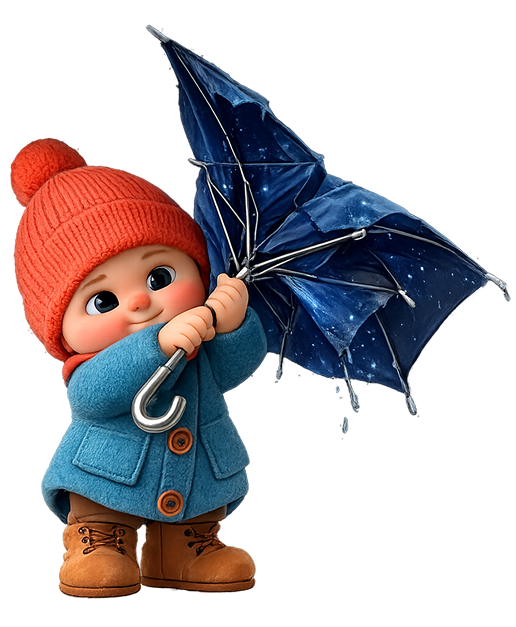
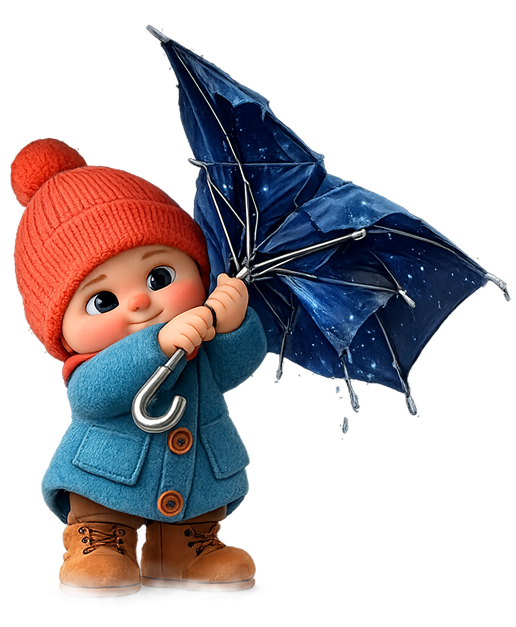
fix/pages02

Changed region(s): [[0.093, 0.8788, 0.4961, 0.9697]]

diff --git a/src/styles/style.css b/src/styles/style.css
@@ -83,8 +83,9 @@
 }
 @layer components {
     .dorm-text :where(p, h2, ul) {
-        @apply text-sm/my-109 font-light md:text-base/my-109 xl:text-[1.44rem];
+        @apply text-sm/my-109 font-light md:text-base/my-109 xl:text-[1.44rem] text-justify;
     }
+    
     .dorm-text > :where(p:not(:last-child), h2, ul) {
         @apply mb-4 xl:mb-8;
     }
